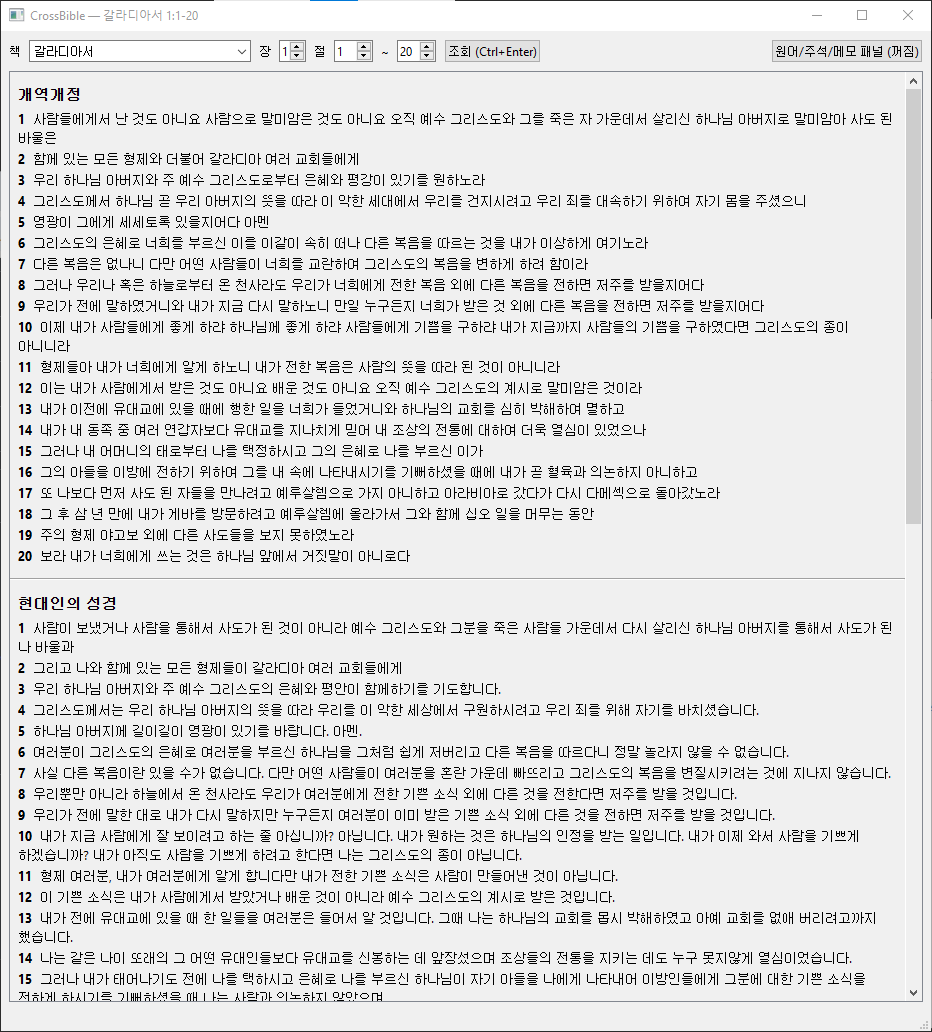
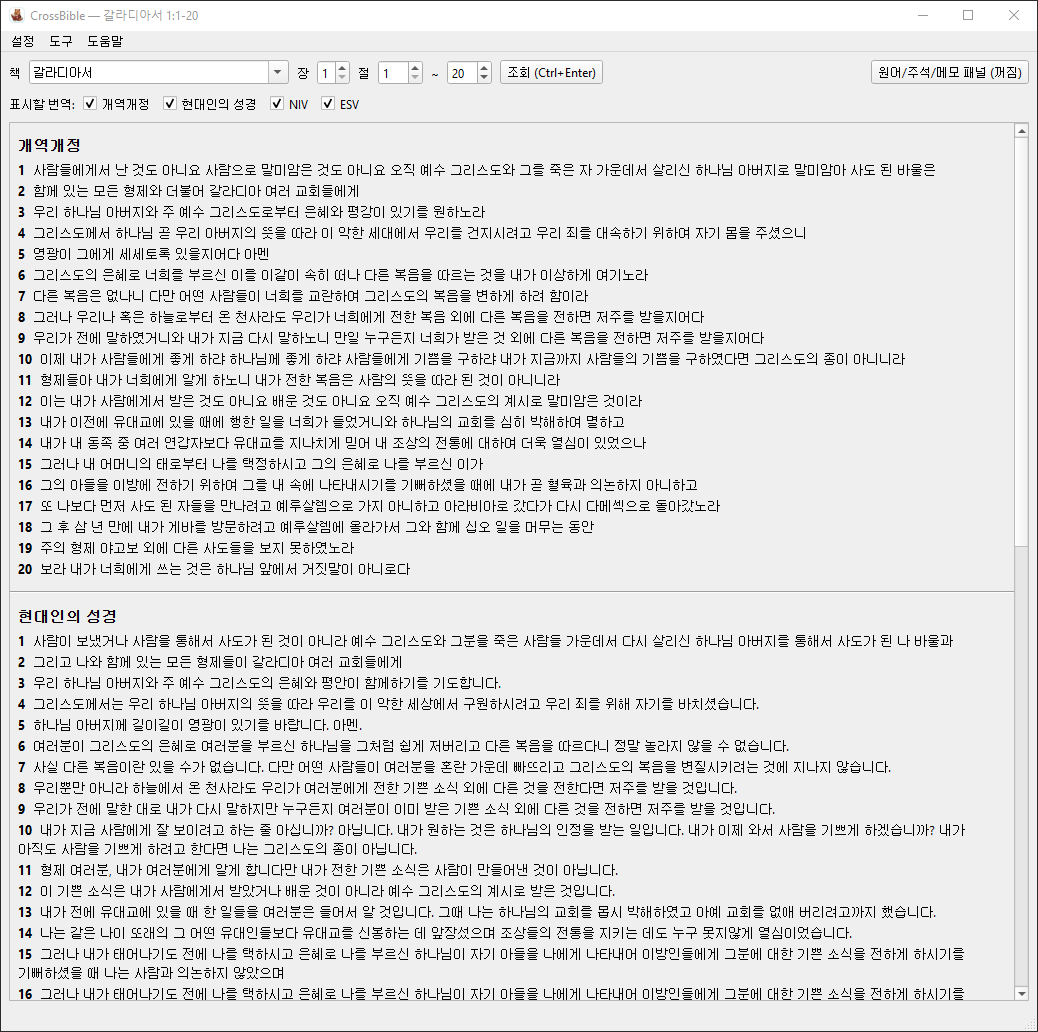
README: refresh screenshots and add a gallery of feature dialogs

diff --git a/README.md b/README.md
@@ -12,6 +12,16 @@
 
 ![Screenshot — no panel](assets/CrossBible_Screenshot_nopanel.png)
 
+기타 다이얼로그:
+
+<table>
+<tr>
+<td align="center"><b>본문 검색 (Ctrl+F)</b><br/><img src="assets/CrossBible_Screenshot_search.png" width="380"/></td>
+<td align="center"><b>성경 다운로드</b><br/><img src="assets/CrossBible_Screenshot_download.png" width="320"/></td>
+<td align="center"><b>영어사전 (한↔영)</b><br/><img src="assets/CrossBible_Screenshot_translator.png" width="320"/></td>
+</tr>
+</table>
+
 ## 기능
 
 - **4개 번역 동시 표시**: 개역개정 · 현대인의 성경 · NIV · ESV (체크박스로 켜고 끄기)